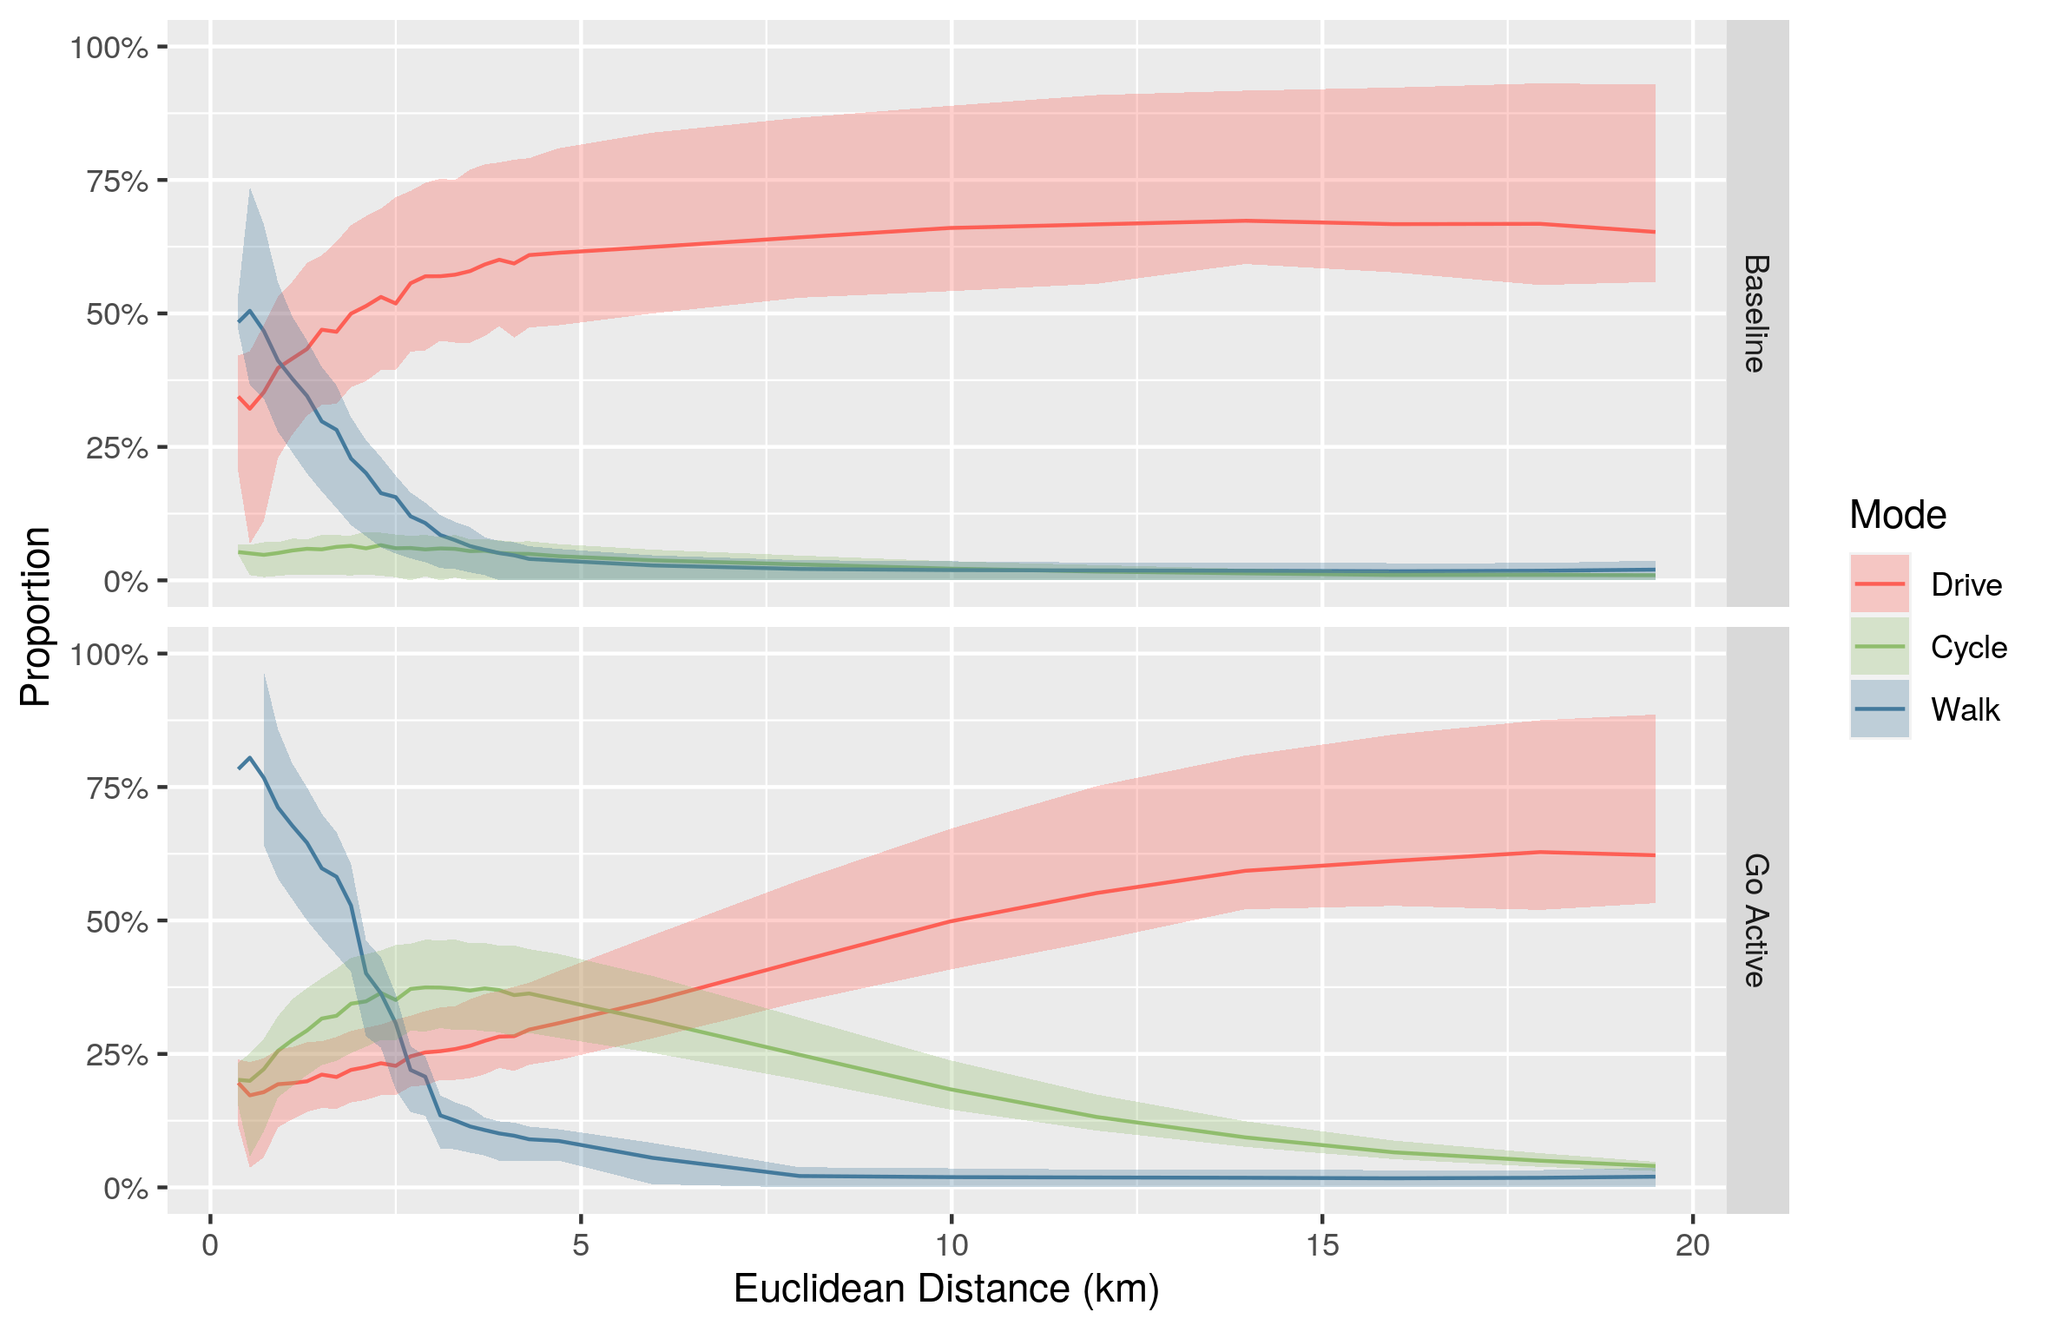
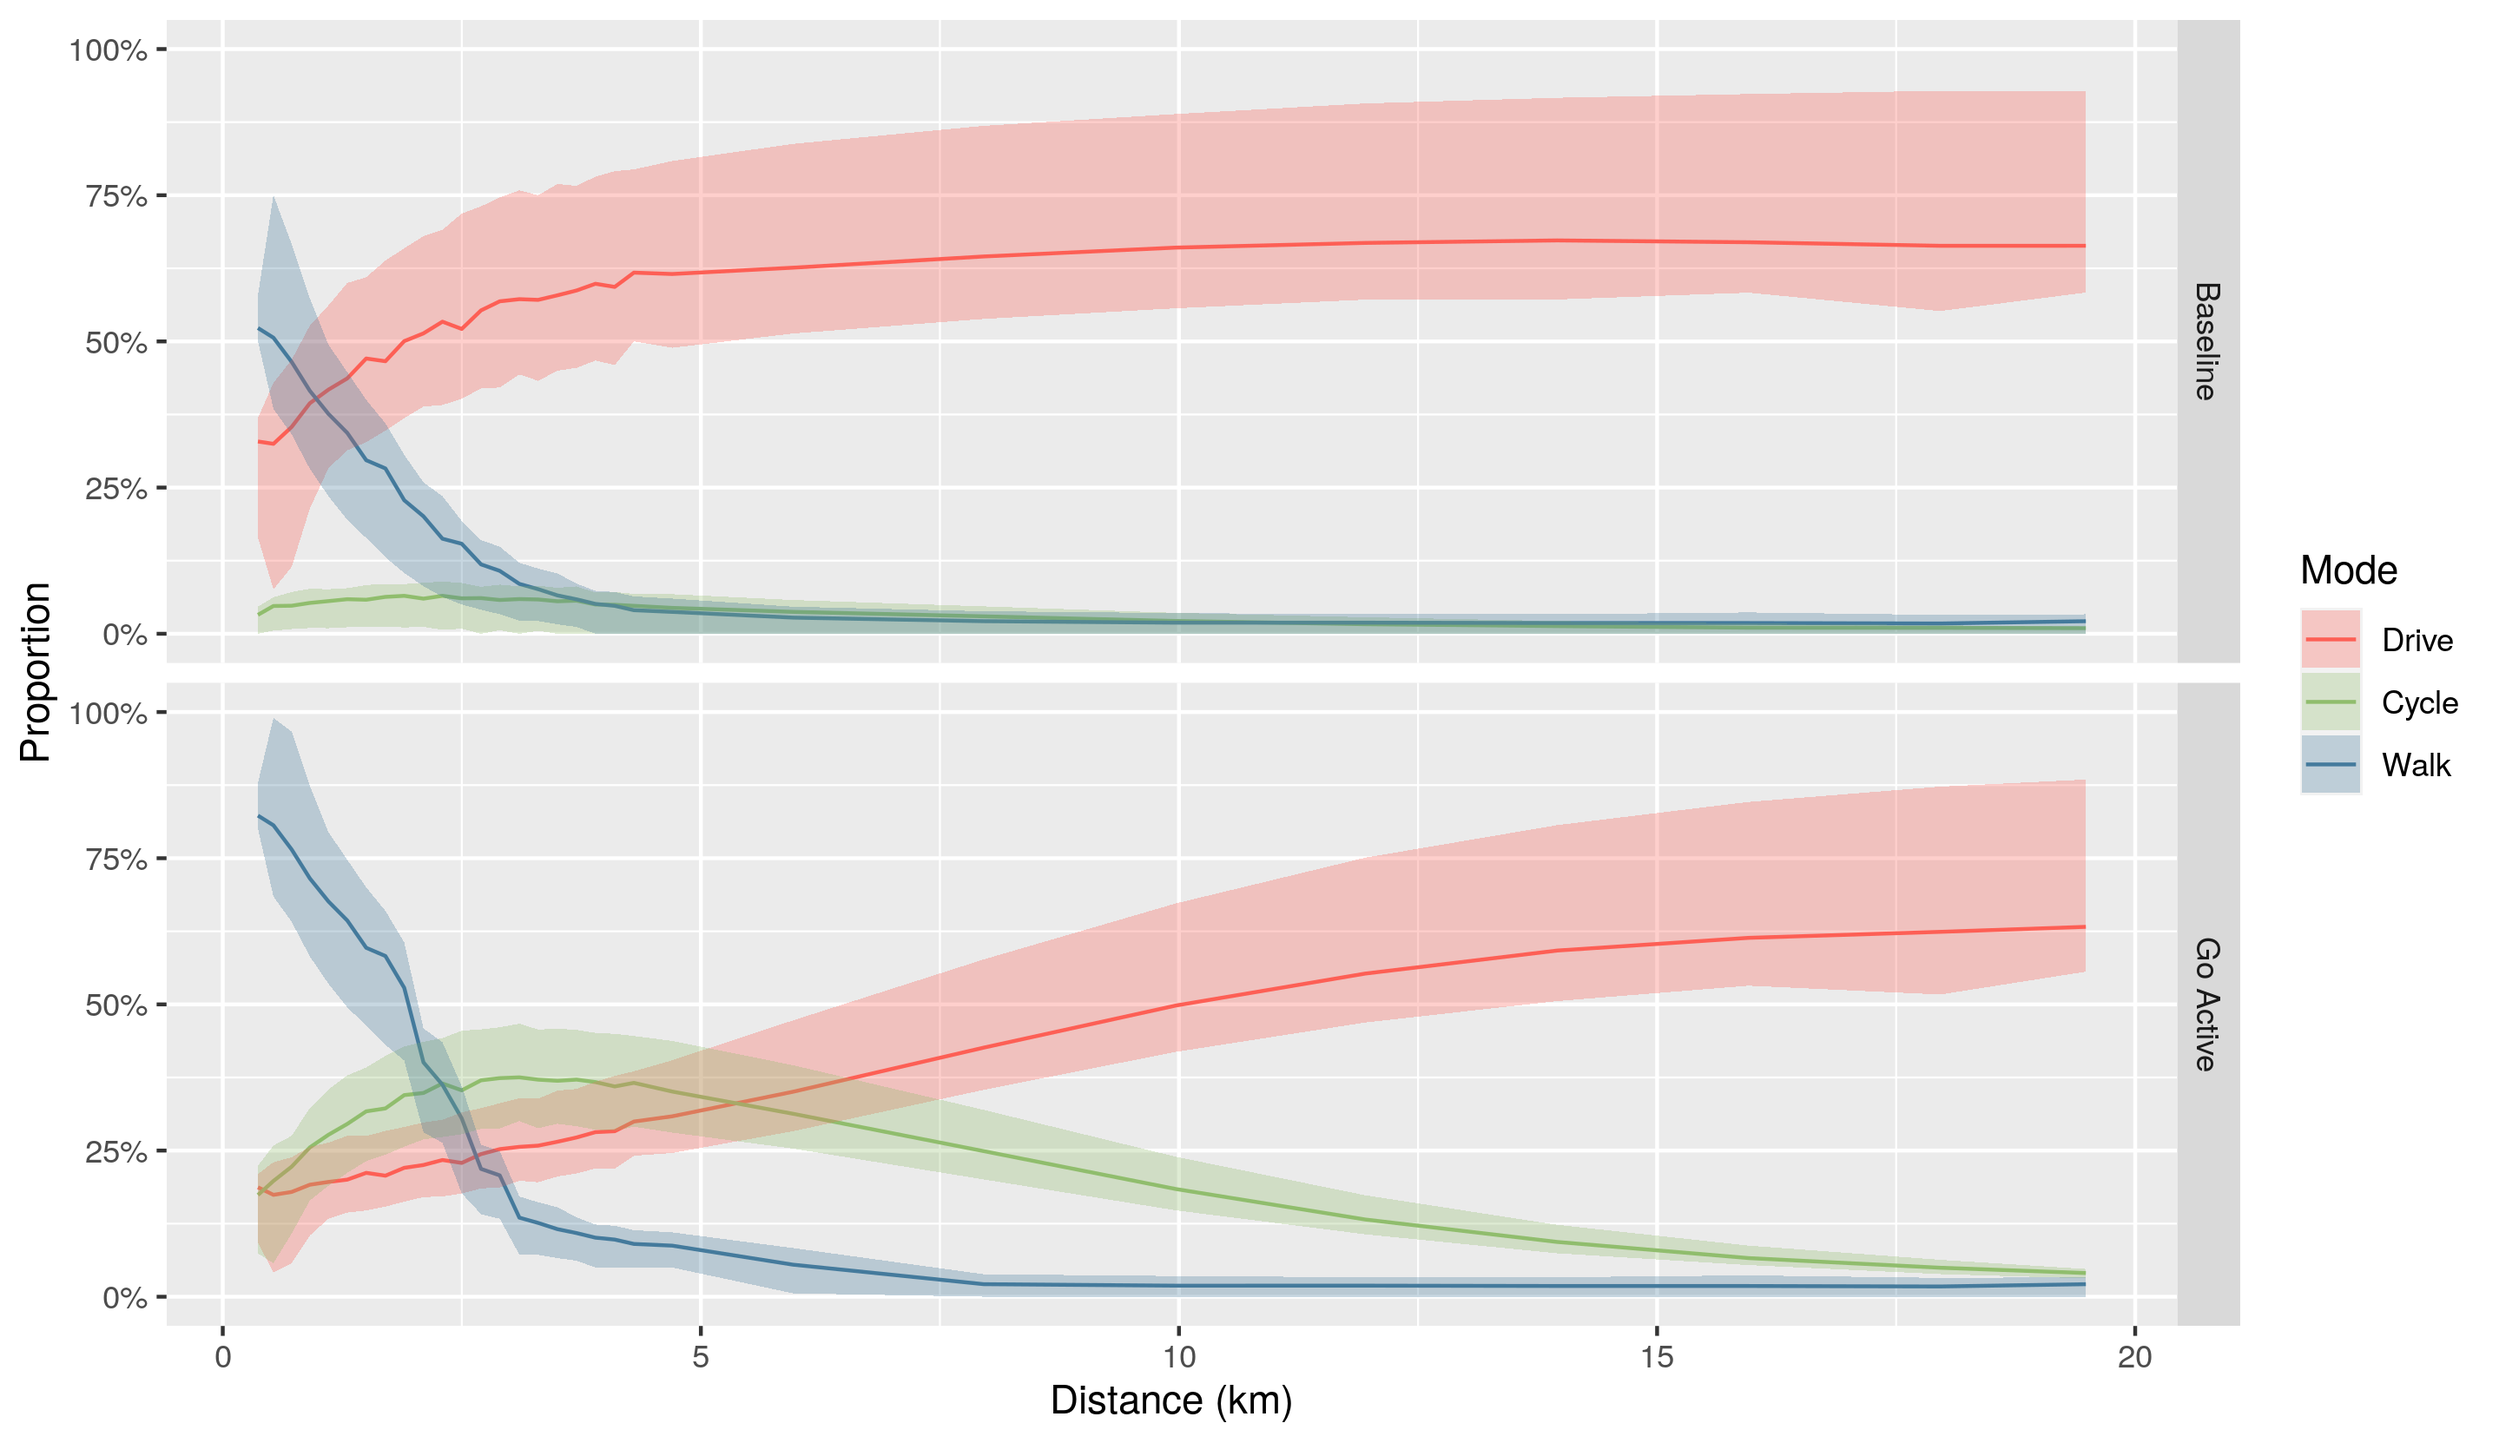
Update report - update and describe uptake model overview graph

diff --git a/code/tests/report.md b/code/tests/report.md
@@ -221,11 +221,12 @@ km length, walking mode share was increased by 20%; for 2.5 - 3.0 km by
 uptake model, which is illustrated in Figure
 <a href="#fig:scenario-overview">2.1</a>.
 
-<img src="https://raw.githubusercontent.com/cyipt/actdev/main/data-small/scenario-overview.png" alt="Overview of the uptake model underlying the Go Active scenario compared with the Baseline scenario which is based on data from the 2011 Census."  />
+<img src="https://raw.githubusercontent.com/cyipt/actdev/main/data-small/scenario-overview.png" alt="Overview of the uptake model underlying the Go Active scenario compared with the Baseline scenario which is based on data from the 2011 Census. The bands represent the range within which the majority of origin-destination pairs fall, from the 20th to the 80th percentile." width="80%" />
 <p class="caption">
 Figure 2.1: Overview of the uptake model underlying the Go Active
 scenario compared with the Baseline scenario which is based on data from
-the 2011 Census.
+the 2011 Census. The bands represent the range within which the majority
+of origin-destination pairs fall, from the 20th to the 80th percentile.
 </p>
 
 ## 2.6 Within-site metrics
